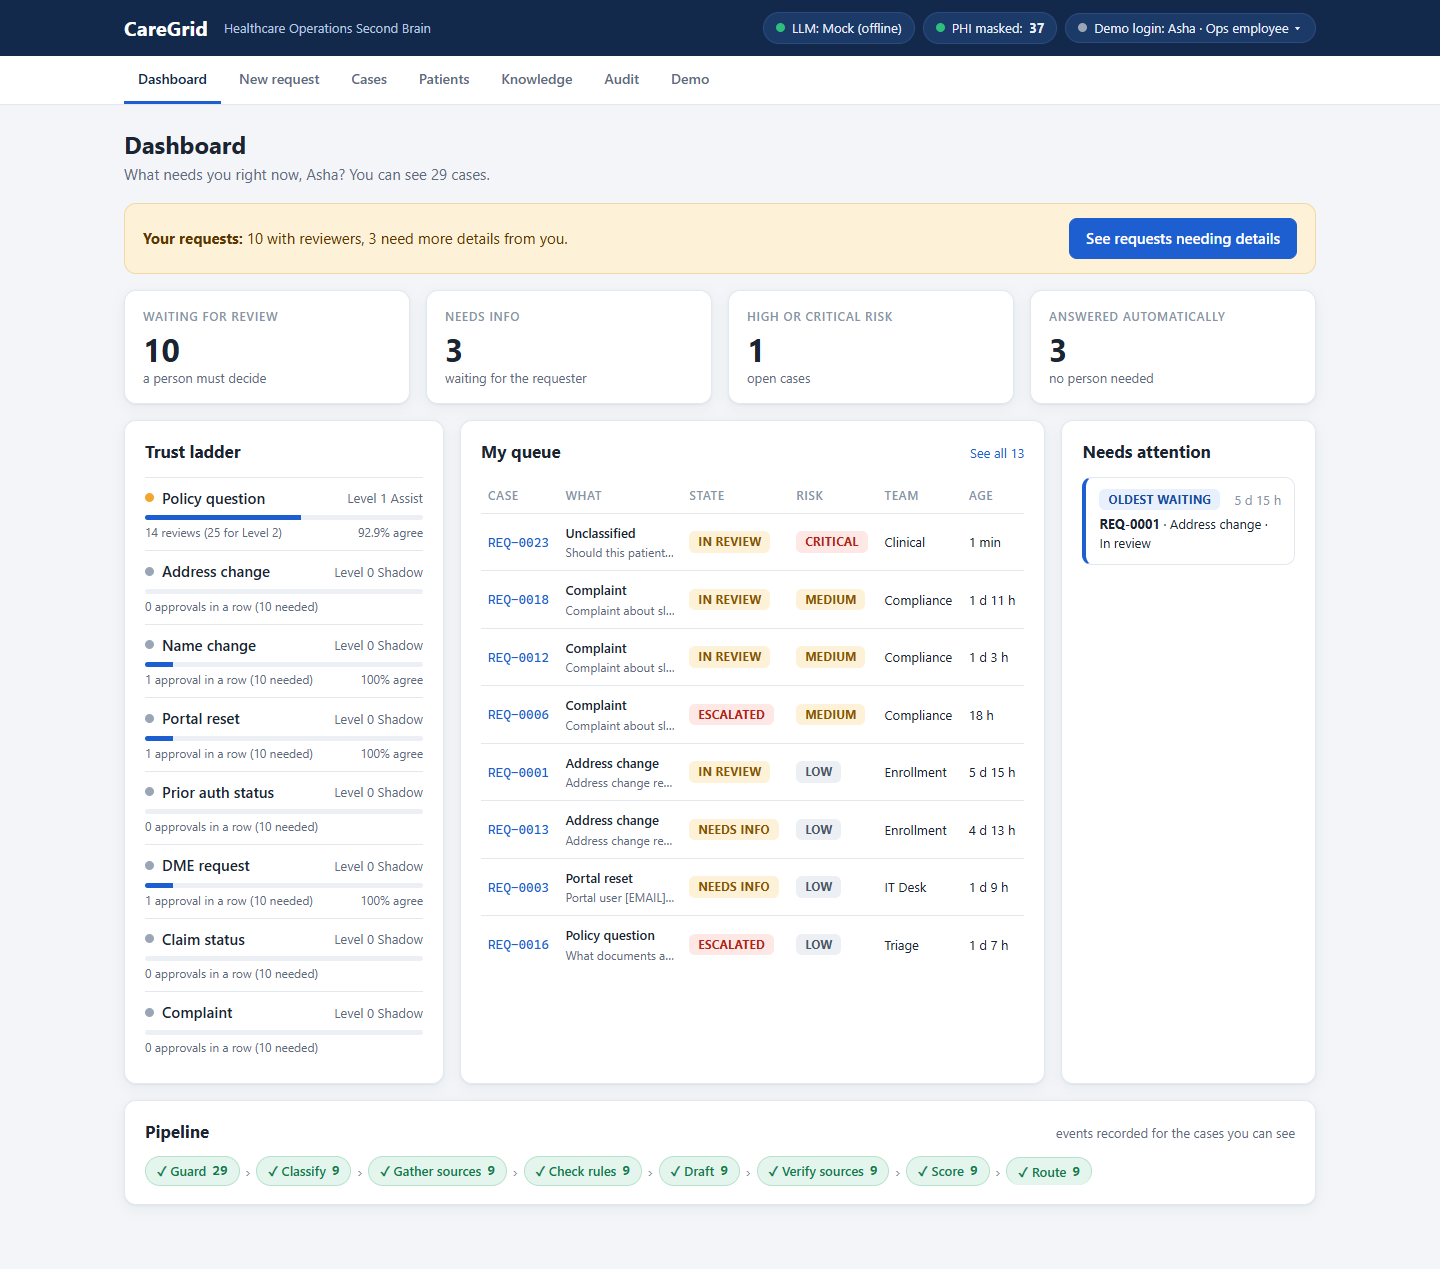
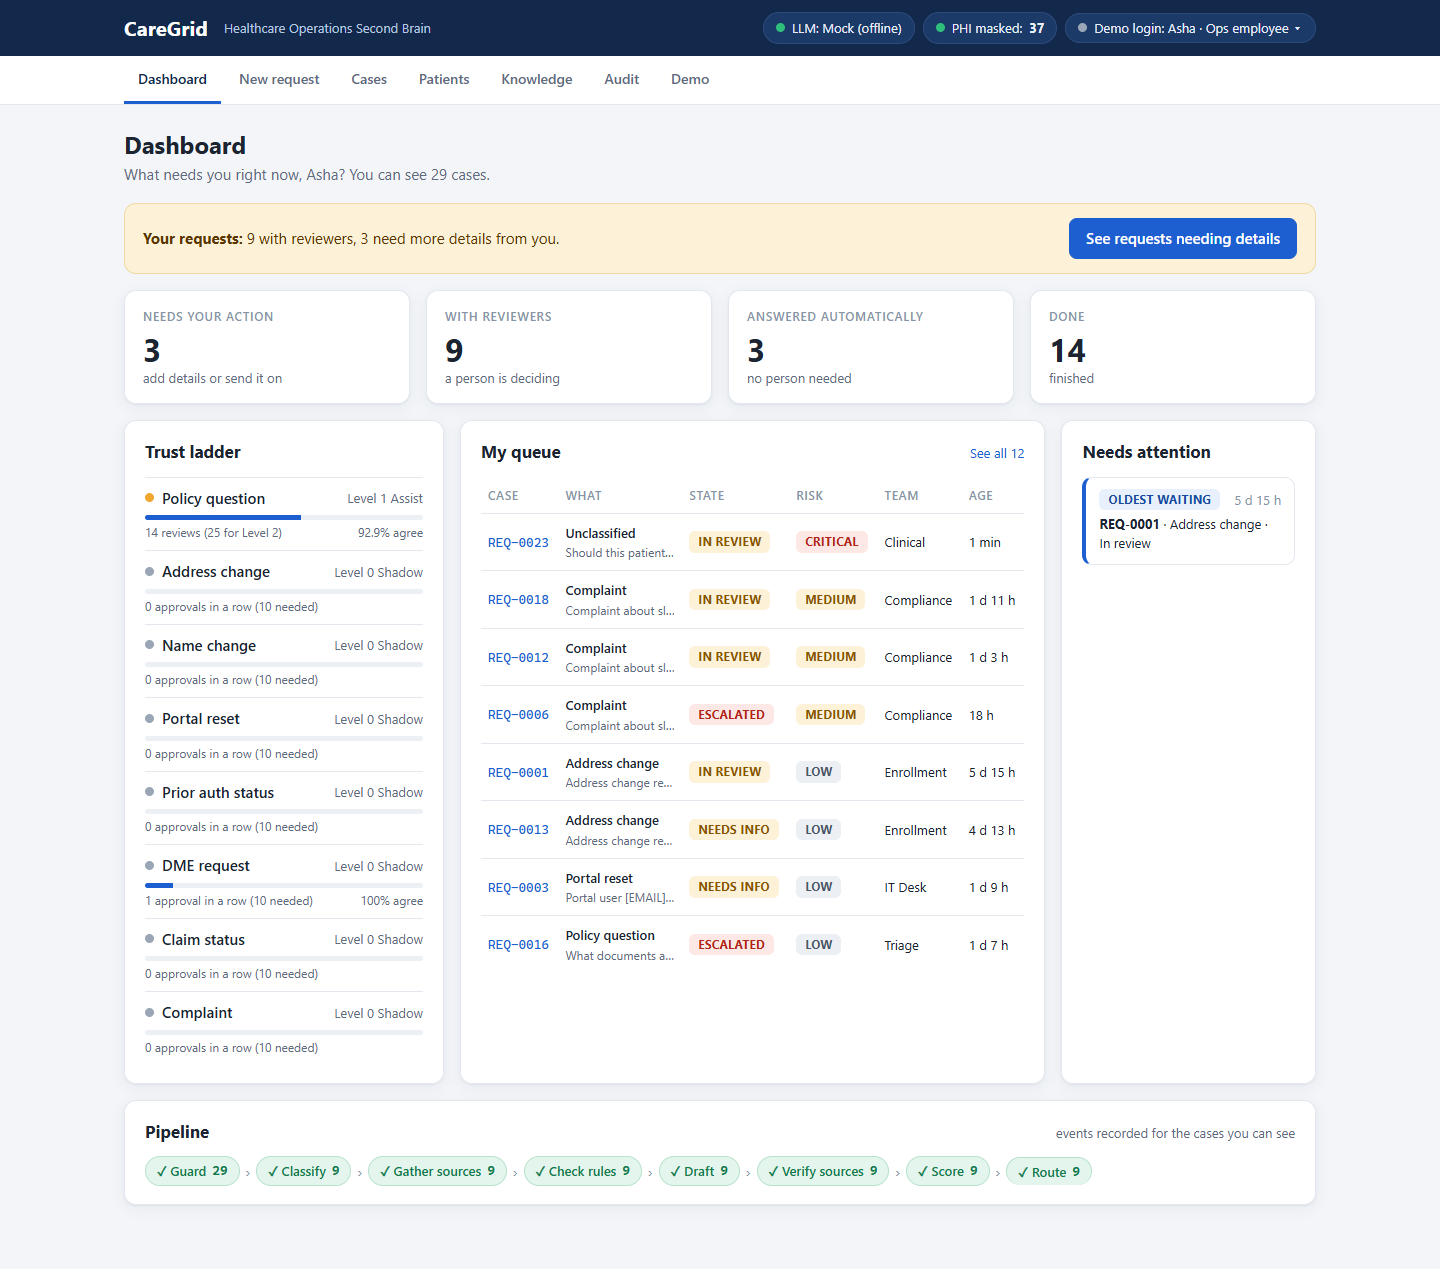
ui: role-specific dashboard tiles, demo guide follows the new flow, README, screenshots

diff --git a/web/pages/index.js b/web/pages/index.js
@@ -50,8 +50,26 @@
   }
 
   function kpi(label, n, cap) { return '<div class="kpi"><div class="label">' + CG.esc(label) + '</div><div class="num">' + CG.esc(n) + '</div><div class="cap">' + CG.esc(cap) + '</div></div>'; }
-  var kpis = '<div class="grid g4" style="margin-bottom:16px">' + kpi('Waiting for review', c.awaiting_review + c.escalated, 'a person must decide') + kpi('Needs info', c.needs_info, 'waiting for the requester') +
-    kpi('High or critical risk', openHigh, 'open cases') + kpi('Answered automatically', c.auto_answered, 'no person needed') + '</div>';
+  // role-specific KPIs: only counts this role can act on
+  var today = new Date().toDateString();
+  var cnt = function (name) { return audit.events.filter(function (e) { return e.event === name; }).length; };
+  var tiles;
+  if (role === 'ops_employee') {
+    tiles = [['Needs your action', cases.filter(function (x) { return x.bucket === 'action'; }).length, 'add details or send it on'],
+      ['With reviewers', cases.filter(function (x) { return x.state === 'in_review' || x.state === 'escalated'; }).length, 'a person is deciding'],
+      ['Answered automatically', c.auto_answered, 'no person needed'], ['Done', cases.filter(function (x) { return x.bucket === 'done'; }).length, 'finished']];
+  } else if (role === 'knowledge_owner') {
+    tiles = [['Policy updates waiting', prs.length, 'for your decision'], ['Conflicts', lint.filter(function (x) { return x.code === 'CONTRADICTION'; }).length, 'policies that disagree'],
+      ['Gaps', lint.filter(function (x) { return x.code === 'ESCALATION_HOTSPOT'; }).length, 'topics without a policy']];
+  } else if (role === 'auditor') {
+    tiles = [['Blocked attempts', cnt('guard_blocked'), 'stopped by the safety check'], ['Reveals', cnt('record_revealed'), 'personal details shown'],
+      ['Denials', cnt('review_denied') + cnt('pr_denied') + cnt('reset_denied') + cnt('record_lookup_denied'), 'refused actions']];
+  } else {
+    var mineQ = queue.filter(function (q) { return q.can_approve; });
+    tiles = [['Waiting for you', mineQ.length, 'you can approve these'], ['Forwarded today', cases.filter(function (x) { return x.forwarded_at && new Date(x.forwarded_at).toDateString() === today; }).length, 'sent to a team by requesters'],
+      ['High risk', openHigh, 'open cases'], ['Overdue', queue.filter(function (q) { return q.age_hours > 24; }).length, 'waiting more than 24 h']];
+  }
+  var kpis = '<div class="grid g' + tiles.length + '" style="margin-bottom:16px">' + tiles.map(function (t) { return kpi(t[0], t[1], t[2]); }).join('') + '</div>';
 
   // ------------------------------------------------------------ trust ladder: one line per type, thin progress bar
   var T = m.trust_thresholds;

diff --git a/web/styles.css b/web/styles.css
@@ -140,3 +140,4 @@ table.compact td.ellip { min-width: 120px; }
 .demo-card { display: grid; gap: 6px; } .demo-card .talk { color: var(--muted); font-size: 14px; }
 
 .tl { list-style: none; margin: 0 0 6px; padding: 0; font-size: 14px; } .tl li { padding: 2px 0; } #forward-note { flex-basis: 100%; }
+.g3 { grid-template-columns: repeat(3, minmax(0, 1fr)); } @media (max-width: 1000px) { .g3 { grid-template-columns: repeat(2, minmax(0, 1fr)); } }

diff --git a/caregrid/api.py b/caregrid/api.py
@@ -250,7 +250,7 @@ def case_row(c: Case, user: User | None = None) -> dict:
         "approver_role": c.approver_role.value if c.approver_role else None, "age_hours": hours_since(c.created_at),
         "created_at": c.created_at.isoformat(), "reason_codes": [r.value for r in c.reason_codes], "requester": c.requester.name,
         "trust_level": c.trust_level, "summary": one_liner(c),
-        "problem": problem_line(c), "bucket": bucket(c, user) if user else None, "next_short": next_short(c, user) if user else None,
+        "forwarded_at": c.forwarded_at.isoformat() if c.forwarded_at else None, "problem": problem_line(c), "bucket": bucket(c, user) if user else None, "next_short": next_short(c, user) if user else None,
     }
 
 
@@ -790,12 +790,14 @@ def api_demo_guide(user: User = Depends(actor)):
          "buttons": [fill("Asha: fill the request", "U1", D.S1)]},
         {"key": "HOWTO", "title": "How-to from a workflow", "talk": "A 'how do I' question is answered with the workflow's own steps, built by code, citing the workflow and its policy.",
          "buttons": [fill("Asha: fill the request", "U1", HOWTO_TEXT)]},
-        {"key": "S2", "title": "S2 Missing details", "talk": "Personal data is masked, and every missing detail is asked for in one numbered message.",
-         "buttons": [fill("Asha: fill the request", "U1", D.S2)]},
-        {"key": "S5", "title": "S5 High-cost equipment (CASE-1024)", "talk": "A senior reviewer sees the whole story and approves; the requester sees the same case with the amount and evidence hidden.",
+        {"key": "S2", "title": "S2 Missing details", "talk": "Personal data is masked and every missing detail is asked for once. Asha then adds the details in a form, and the case moves on.",
+         "buttons": [fill("Asha: fill the request", "U1", D.S2), {"label": "Asha: add the missing details", "act_as": "U1", "kind": "page", "href": "case.html?show=action"}]},
+        {"key": "S5", "title": "S5 High-cost equipment (CASE-1024)", "talk": "Asha sent it to Senior Ops; the senior reviewer sees 'Forwarded by Asha' with her note, the whole story, and approves. The requester sees the same case with the amount and evidence hidden.",
          "buttons": [case_("Rahul: open CASE-1024", "U4", "CASE-1024"), case_("Asha: open the same case", "U1", "CASE-1024")]},
         {"key": "S6", "title": "S6 The system learns", "talk": "A human-approved decision becomes a precedent, and the next similar request is scored higher.",
-         "buttons": [fill("Asha: fill name change 1", "U1", D.S6A), fill("Asha: fill name change 2", "U1", D.S6B)]},
+         "buttons": [fill("Asha: fill name change 1", "U1", D.S6A), fill("Asha: fill name change 2", "U1", D.S6B),
+                     {"label": "Asha: send it to the team", "act_as": "U1", "kind": "page", "href": "case.html?show=action"},
+                     {"label": "Vikram: approve it", "act_as": "U2", "kind": "page", "href": "case.html?show=action"}]},
         {"key": "S7", "title": "S7 Conflict and policy fix", "talk": "Two policies disagree; a specialist proposes retiring one, the knowledge owner approves, and the conflict disappears.",
          "buttons": [fill("Asha: fill the portal reset", "U1", D.S3), {"label": "Meera: policy updates", "act_as": "U5", "kind": "page", "href": "knowledge.html?tab=prs"}]},
         {"key": "S8", "title": "S8 Health ID", "talk": "A valid CareGrid Health ID links the case to the patient's timeline; a wrong checksum is sent back to be re-checked.",

diff --git a/tests/test_web_e2e.py b/tests/test_web_e2e.py
@@ -645,3 +645,13 @@ def test_requester_adds_details_confirms_the_handoff_and_the_reviewer_sees_who_f
     p = web.go("/case.html?case=" + cid, "#forwarded-by")
     assert "Forwarded by Asha" in text(p, "#forwarded-by") and "All documents are attached." in text(p, "#forward-note")
     assert "You: approve or reject in the Decide panel." in text(p, "#next")
+
+
+def test_dashboard_tiles_are_role_specific(web):
+    expect = {"U1": ["NEEDS YOUR ACTION", "WITH REVIEWERS", "ANSWERED AUTOMATICALLY", "DONE"],
+              "U4": ["WAITING FOR YOU", "FORWARDED TODAY", "HIGH RISK", "OVERDUE"],
+              "U5": ["POLICY UPDATES WAITING", "CONFLICTS", "GAPS"], "U6": ["BLOCKED ATTEMPTS", "REVEALS", "DENIALS"]}
+    for uid, labels in expect.items():
+        web.as_user(uid)
+        p = web.go("/index.html", ".kpi")
+        assert [x.inner_text().upper() for x in p.locator(".kpi .label").all()] == labels, uid

diff --git a/web/README.md b/web/README.md
@@ -61,3 +61,11 @@ The Decide panel and the Assistant stay on the right. **Why this decision** (eac
 **Cases list:** Case · Problem · Status · With · Next step · Age, with the filters All / Needs my action / Waiting / Done.
 
 **Demo guide** (nav item "Demo", shown only when `DEMO_MODE=1`; `GET /api/demo/guide`): one card per scenario in demo order (S1, how-to, S2, CASE-1024 as Rahul then as Asha, S6, S7, S8, S4). Each button switches the demo login and either fills New request with the exact test text (not submitted) or opens the case / page. The S8 text holds a synthetic Health ID and is given only to an ops manager or senior reviewer, so that card's button switches to Rahul first. "Reset demo" at the top is shown to the allowed roles only.
+
+## The flow since demo-v6
+
+1. A request that a person must decide, with no safety override, stops at "Ready to send to <team>": the requester opens the case and either **sends it** (optional masked note) or **withdraws** it. Safety cases (medical, injection, sensitive, account-specific) go to review at once, shown as "Sent automatically for safety". Auto-answered cases are unchanged.
+2. A case that needs details shows the requester an **Add missing details** form with exactly the missing / invalid fields (a drop-down for the supporting document). The values are guarded and masked like a new request, the case is re-checked, and only what is still missing is asked again.
+3. Reviewers see **Forwarded by Asha · time** and her note on the case; the **Timeline** card tells the story from the audit log (last three entries, expandable), including alerts ("Alert emailed to Senior Ops on-call", or "simulated").
+4. Click paths that changed: **S2** Asha submits, opens the case, fills the form (NPI 1234567890, date, document), sends it. **S3 / S6 / S7** Asha opens her case and clicks "Send to ..." before the reviewer can decide (Cases -> filter "Needs my action"). **S5** CASE-1024 is already forwarded by Asha ("Vendor quote attached...").
+5. Deploy: see `docs/DEPLOY.md`.
